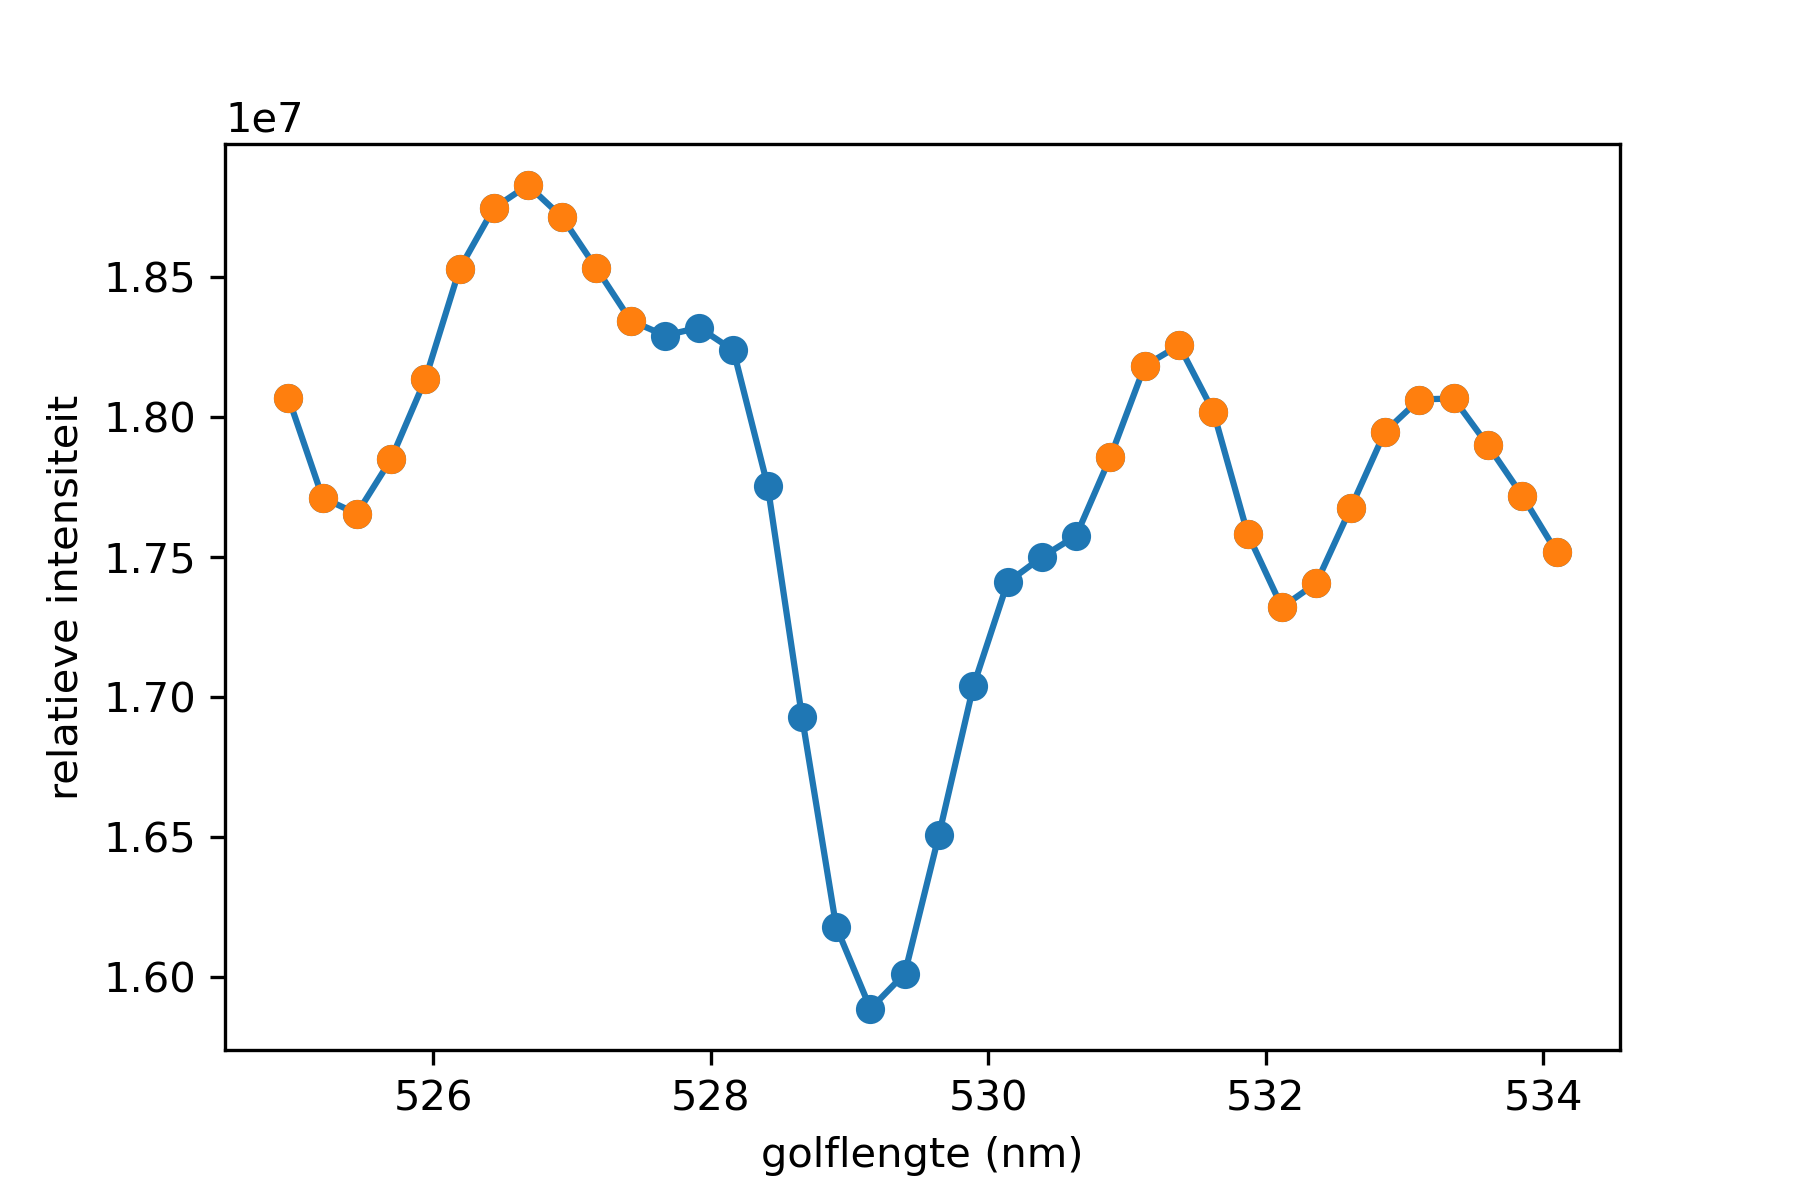
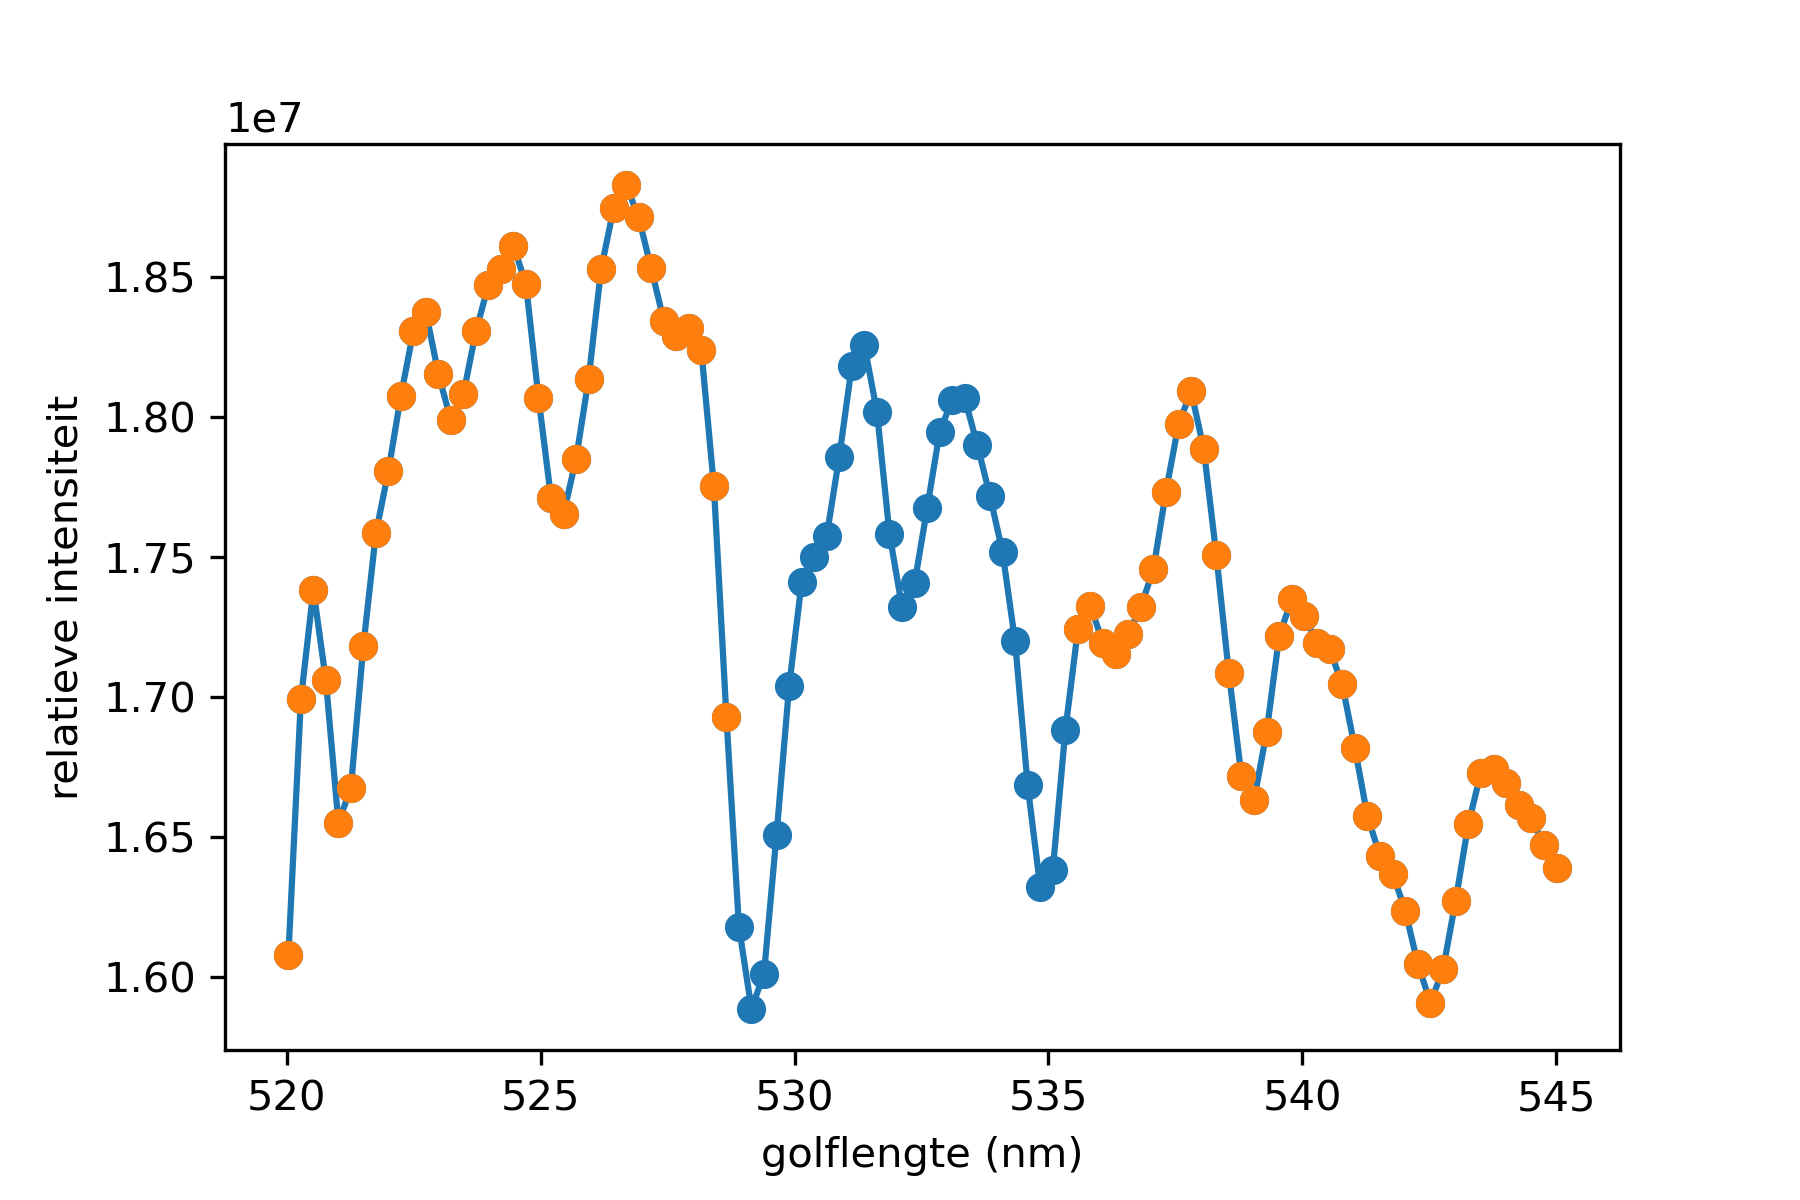
removed unnecessary return and import

diff --git a/normalize.py b/normalize.py
@@ -61,7 +61,7 @@ class Normalize:
         
         return self.x, self.y
         
-    def mask_peak(self, wavelength):
+    def mask_peak(self, wavelength, width_multiplier):
         """Finds the absorption peak, and masks it for proper
         normalization.
         """
@@ -76,7 +76,7 @@ class Normalize:
         peak = peaks[peak]
         width, _, _, _ = peak_widths(-y, np.array([peak]))
         
-        width = 0.3*width
+        width = width_multiplier*width
         
         # find leftmost part of peak
         x_left = x[peak] - width
@@ -99,10 +99,10 @@ class Normalize:
         return self.x_masked, self.y_masked
         
 
-    def smooth_function(self):
+    def smooth_function(self, smoothing):
         
         y = self.y_masked
-        self.smooth_y = gaussian_filter1d(y,sigma=3)
+        self.smooth_y = gaussian_filter1d(y,sigma=smoothing)
         return self.smooth_y        
 
     def curve_fit(self):
@@ -143,10 +143,10 @@ degrees = str('30')
 measurement=str('002')
 
 meting = Normalize(data_folder, degrees, measurement)
-x, y = meting.isolate(525,534)
+x, y = meting.isolate(520,545)
 
-xm,ym = meting.mask_peak(529)
-ys=meting.smooth_function()
+xm,ym = meting.mask_peak(531, 1.0)
+ys=meting.smooth_function(10)
 meting.curve_fit()
 yn = meting.normalize()
 

diff --git a/equivalent_width_method.py b/equivalent_width_method.py
@@ -38,7 +38,7 @@ degrees = str('30')
 measurement=str('002')
 
 meting = Normalize(data_folder, degrees, measurement)
-x, y = meting.isolate(430,445)
+x, y = meting.isolate(400,420)
 
 xm,ym = meting.mask_peak(438)
 ys=meting.smooth_function()
